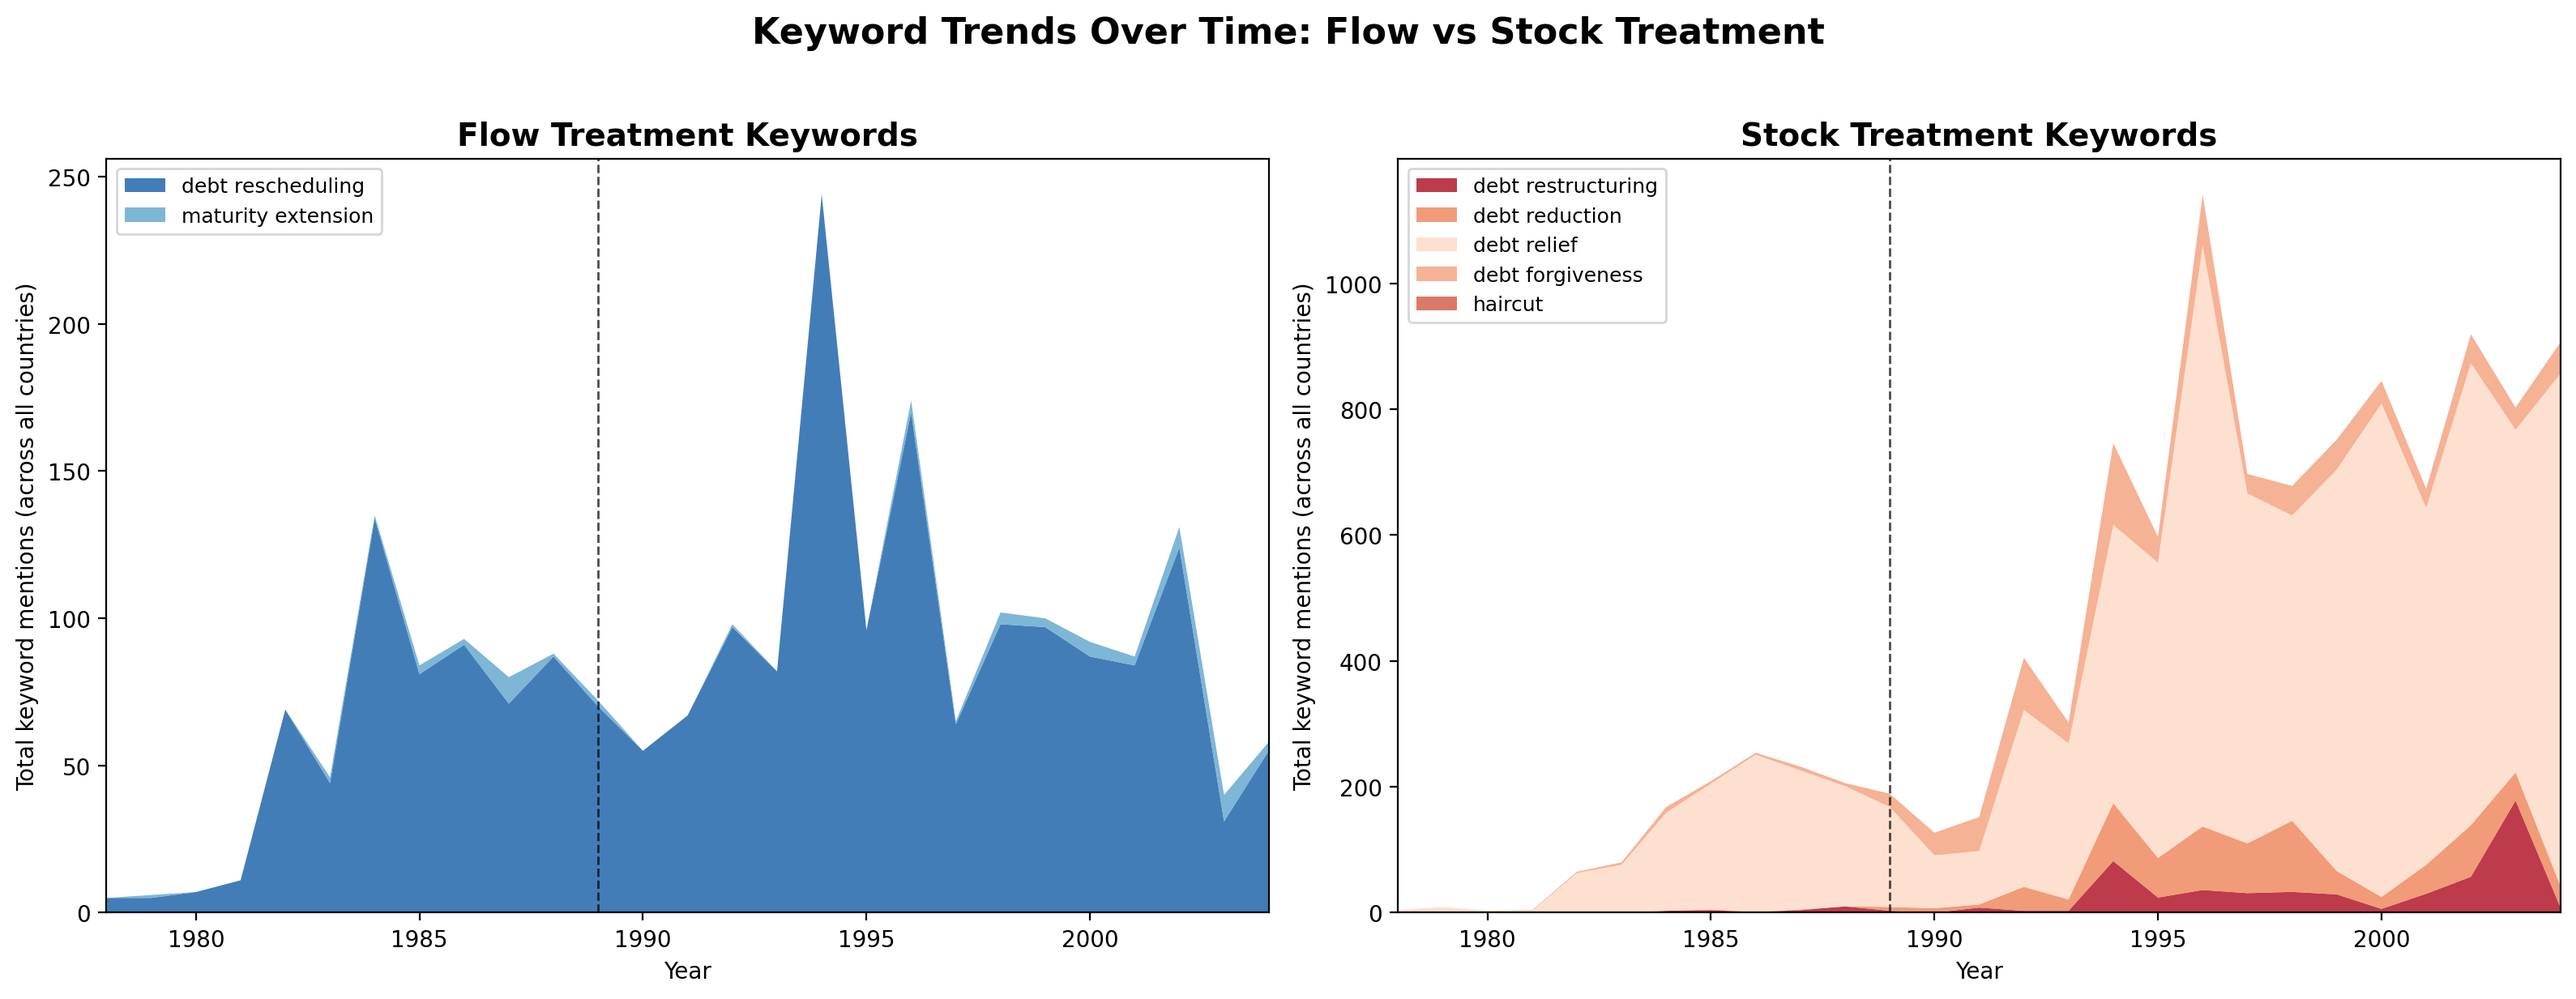
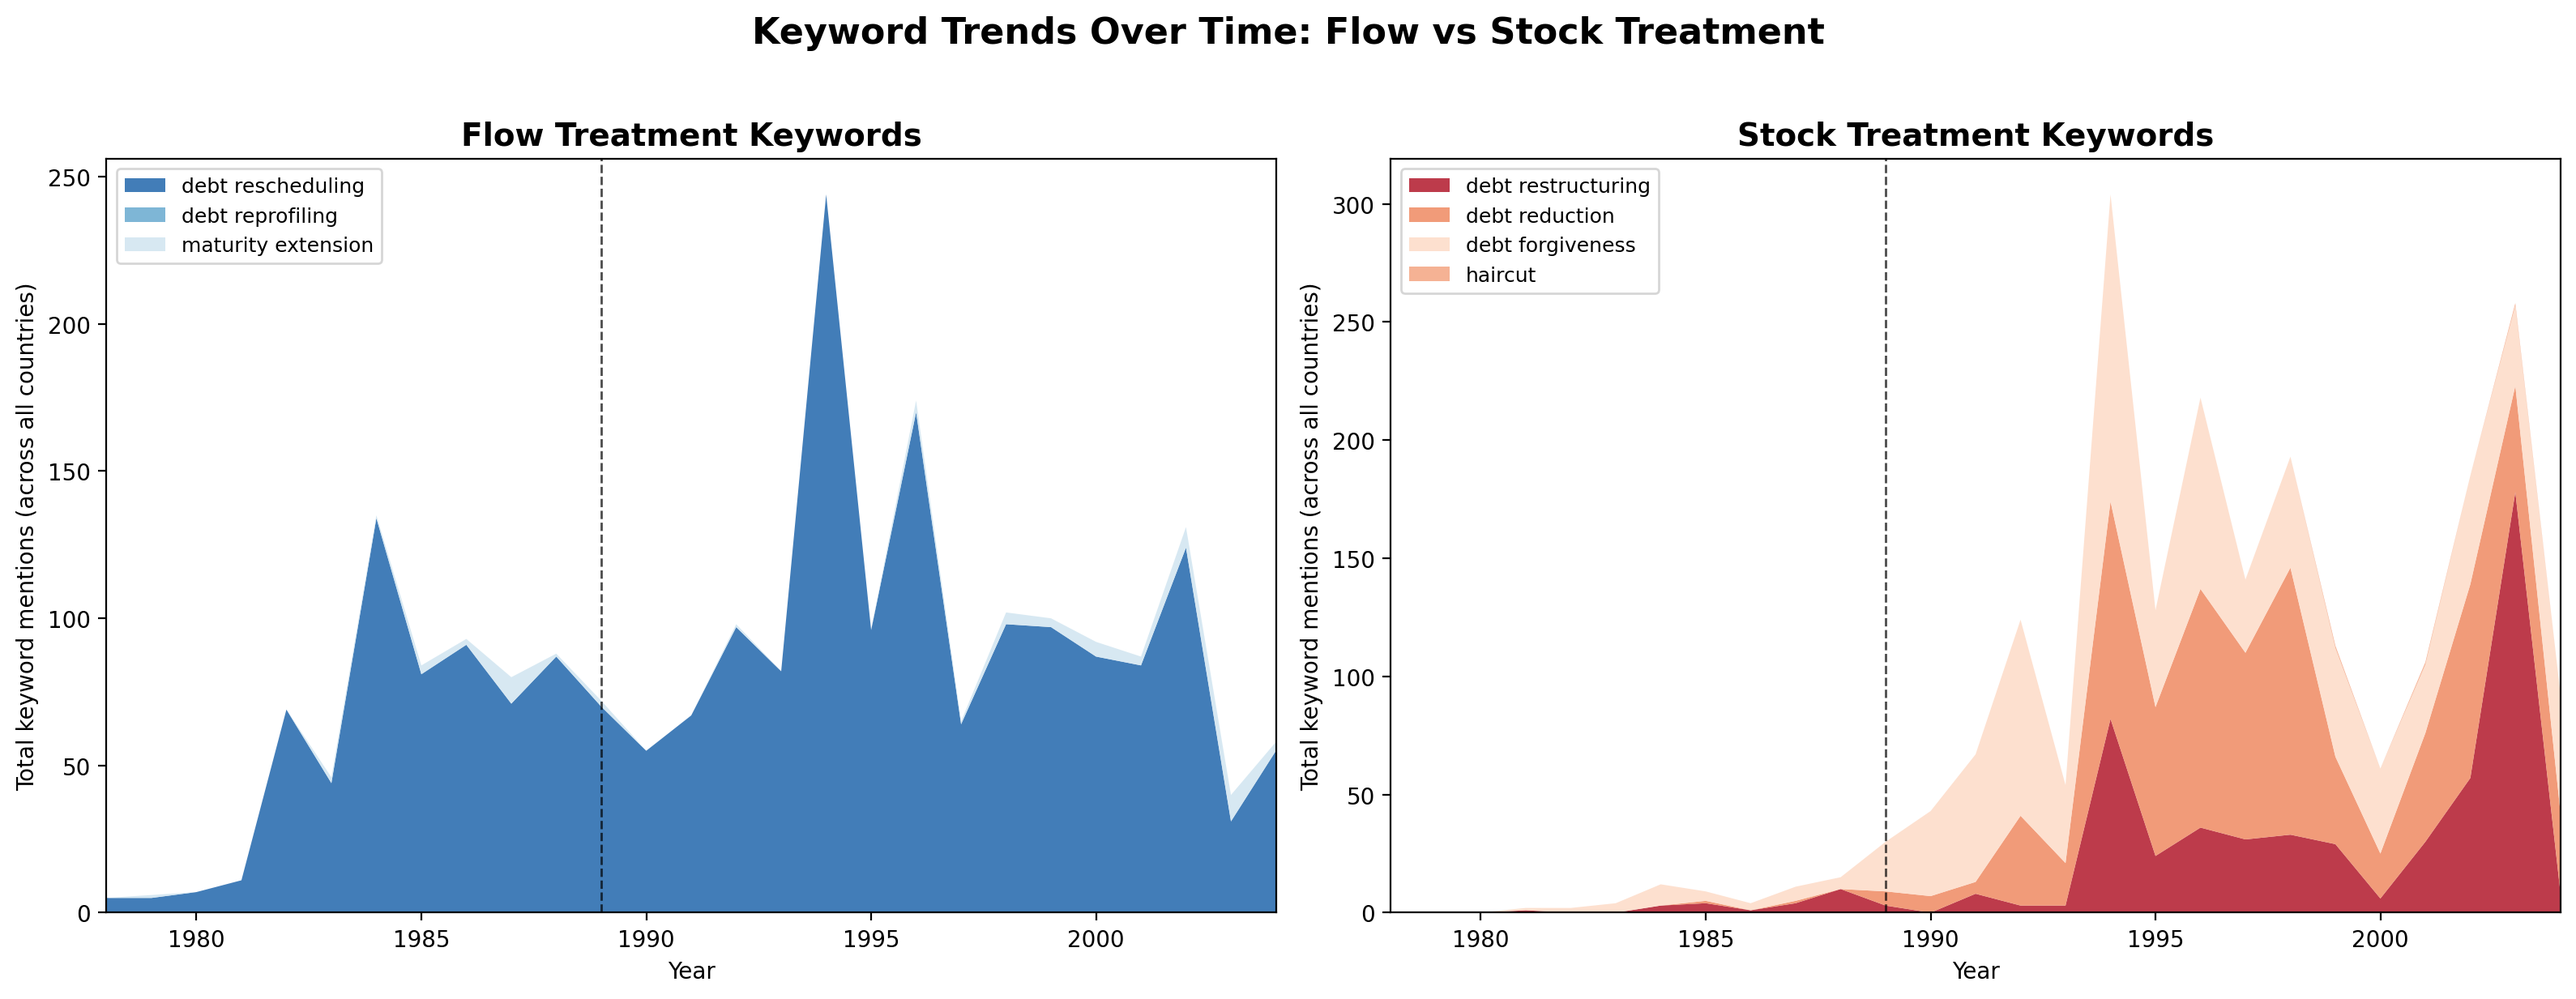
Update stacked area chart: exclude debt relief from stock treatment, add debt reprofiling to legend

diff --git a/generate_stacked_area.py b/generate_stacked_area.py
@@ -11,7 +11,7 @@ agg = df.groupby(['keyword', 'year'])['count'].sum().reset_index()
 
 # Define groups
 flow_keywords = ['debt rescheduling', 'debt reprofiling', 'maturity extension']
-stock_keywords = ['debt restructuring', 'debt reduction', 'debt relief', 'HIPC', 'debt forgiveness', 'haircut']
+stock_keywords = ['debt restructuring', 'debt reduction', 'debt forgiveness', 'haircut']
 
 # Filter to period up to 2004
 agg = agg[agg['year'] <= 2004]
@@ -23,7 +23,10 @@ def build_pivot(keywords):
     sub = agg[agg['keyword'].isin(keywords)]
     piv = sub.pivot_table(index='year', columns='keyword', values='count', fill_value=0)
     piv = piv.reindex(all_years, fill_value=0)
-    # Reorder columns to match the keyword list order (only existing ones)
+    # Ensure all keywords appear as columns (even if 0 data)
+    for k in keywords:
+        if k not in piv.columns:
+            piv[k] = 0
     cols = [k for k in keywords if k in piv.columns]
     return piv[cols]
 
